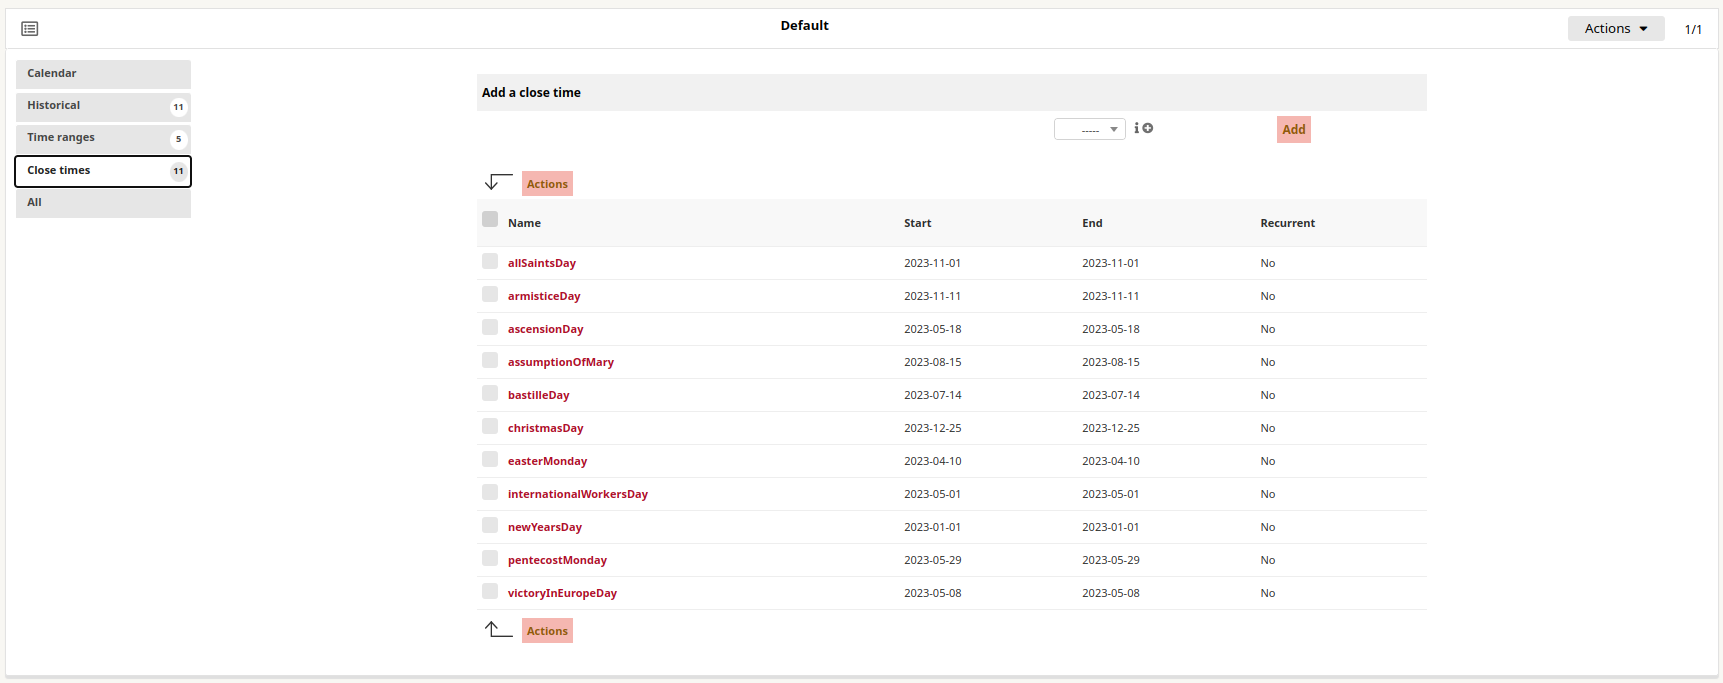
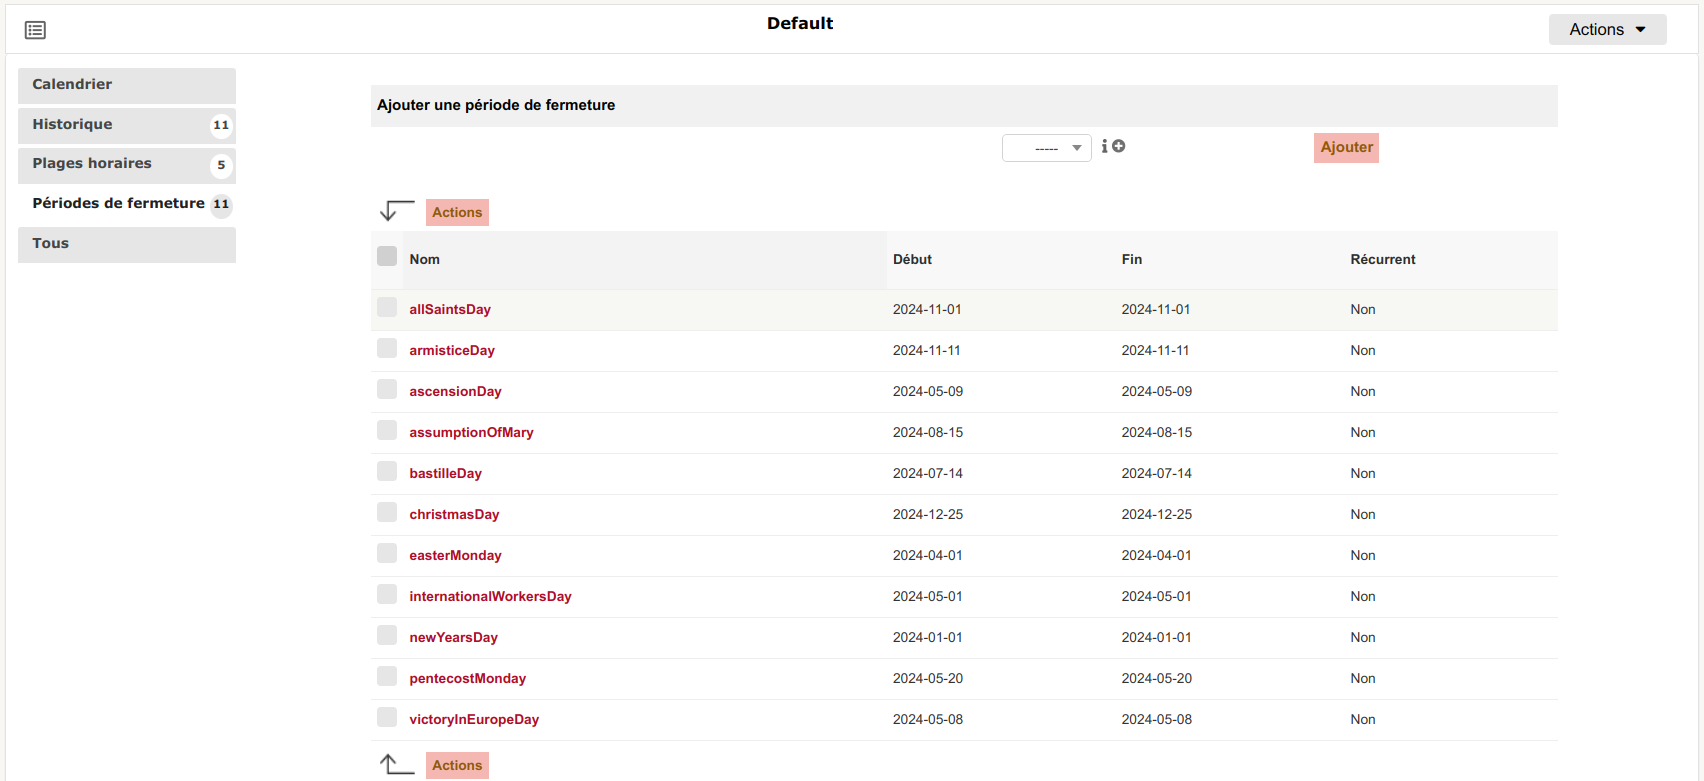
docs: translate holidays doc

diff --git a/Plugins/Holidays.md b/Plugins/Holidays.md
@@ -8,24 +8,24 @@ editor: markdown
 dateCreated: 2023-11-03T13:40:41.681Z
 ---
 
-This plugin allows you to automatically set holidays for more than 40 countries.
+Ce plugin vous permet de définir automatiquement les jours fériés pour plus de 40 pays.
 
 ## Installation
 
-Installing this plugin is done following the standard process for itsm plugins, simply clone [the git repository](https://github.com/itsmng/holidays) or [download a release](https://github.com/itsmng/holidays/releases) and place it within ITSM `plugins` folder.
+L'installation de ce plugin se fait en suivant le processus standard pour les plugins ITSM, il suffit de cloner [le dépôt git](https://github.com/itsmng/holidays) ou [télécharger une version](https://github.com/itsmng/holidays/releases) et de le placer dans le dossier ITSM `plugins`.
 
-Unzip the plugin archive, set Apache rights and enjoy !
+Décompressez l'archive du plugin, définissez les droits d'Apache et profitez-en !
 
 ## Usage
 
-Go to `Setup > Plugins` and click on the `Holidays` plugin name to access the configuration.
+Allez dans `Configuration > Plugins` et cliquez sur le nom du plugin `Holidays` pour accéder à la configuration.
 
-Select your country and the calendar you want.
+Sélectionnez votre pays et le calendrier souhaité.
 
 ![](/files/img/plugins/holidays/holidays_config.png)
 
-Click on `Save`.
+Cliquez sur `Envoyer`.
 
-If you check your calendar in `Setup > Dropdowns` menu, you will be able to see that all the public holidays of your country have been added.
+Si vous vérifiez votre calendrier, aller dans le menu `Configuration > Intitulés`, vous pourrez voir que tous les jours fériés de votre pays ont été ajoutés.
 
 ![](/files/img/plugins/holidays/holidays_result.png)
